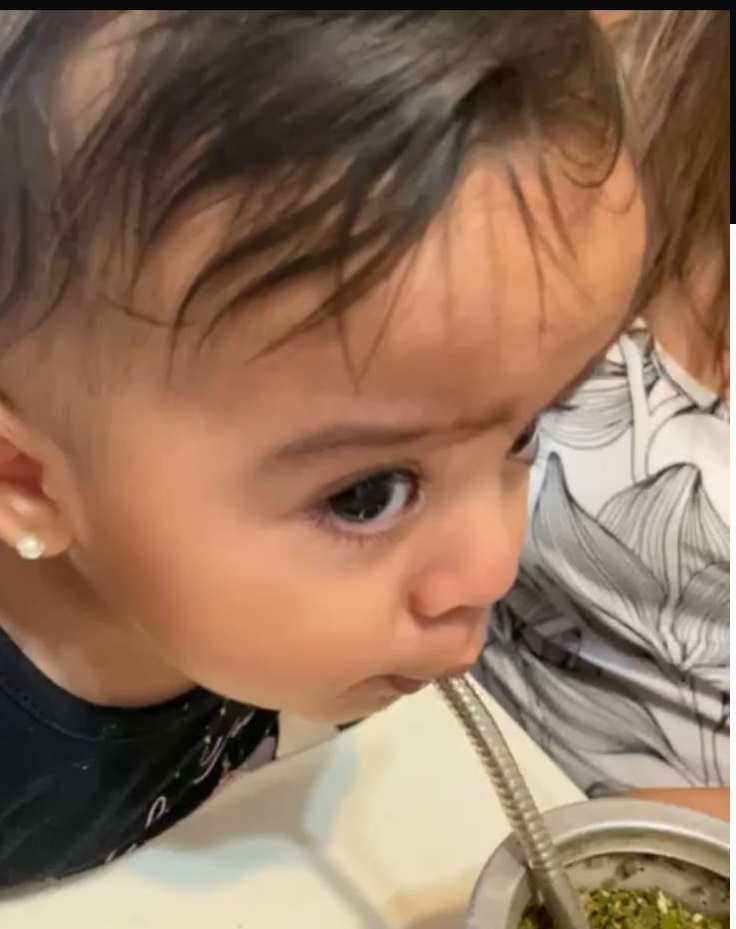
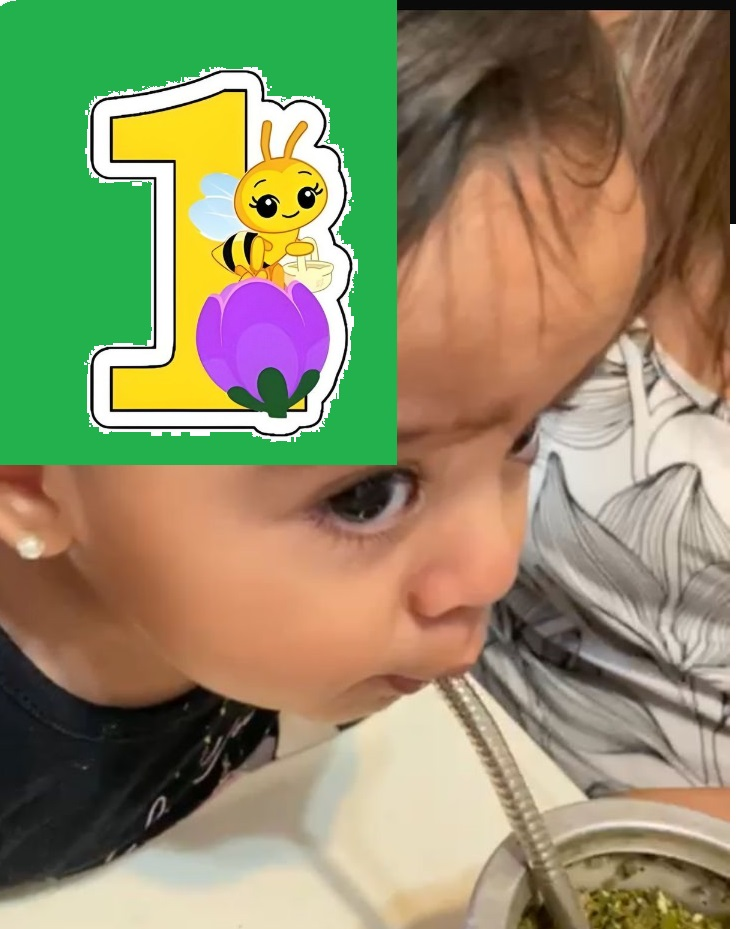
cambio de foto principal

Changed region(s): [[0.0, 0.0, 0.5625, 0.4995]]

diff --git a/index.html b/index.html
@@ -8,7 +8,7 @@
 </head>
 <body>
     <h1>¡Vamos a festejar mi primer cumpleaños!</h1>
-    <img class="mainimg" src="img/bebetest.jpeg" alt="Imagen de ejemplo">
+    <img class="mainimg" src="img/bebe.jpeg" alt="Imagen de ejemplo">
     <img src="img/animacion.gif" alt="GIF animado" class="gif">
     <h2>Primer cumpleaños Izel</h2>
     <h3>Fecha y hora: 30 de marzo 14 a 17hs</h3>
